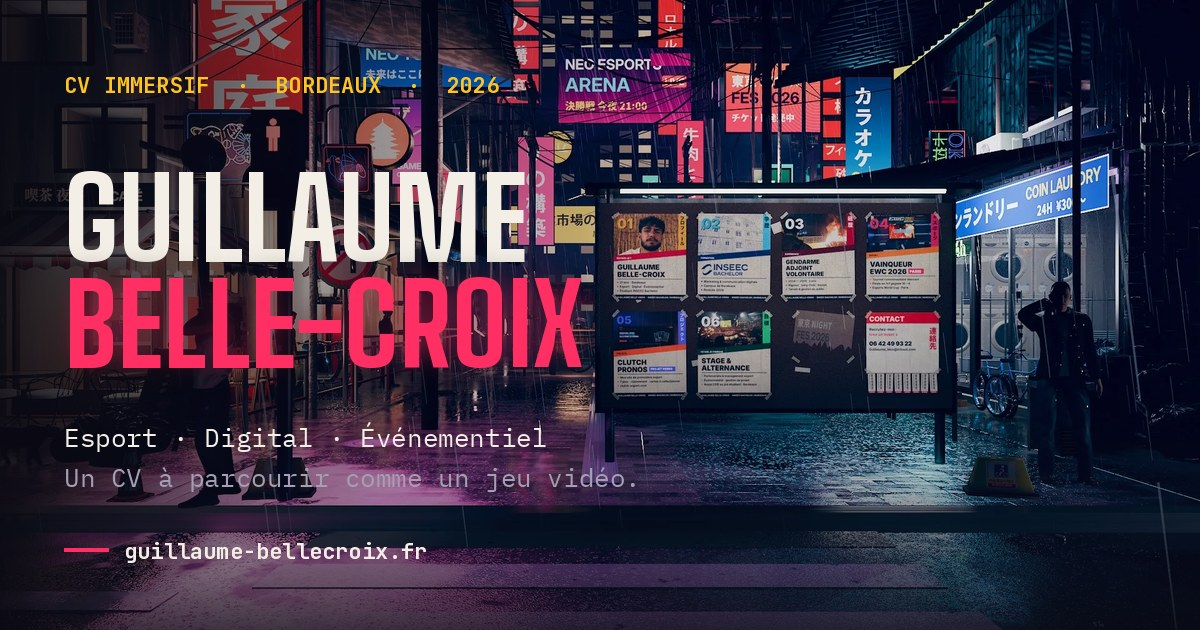
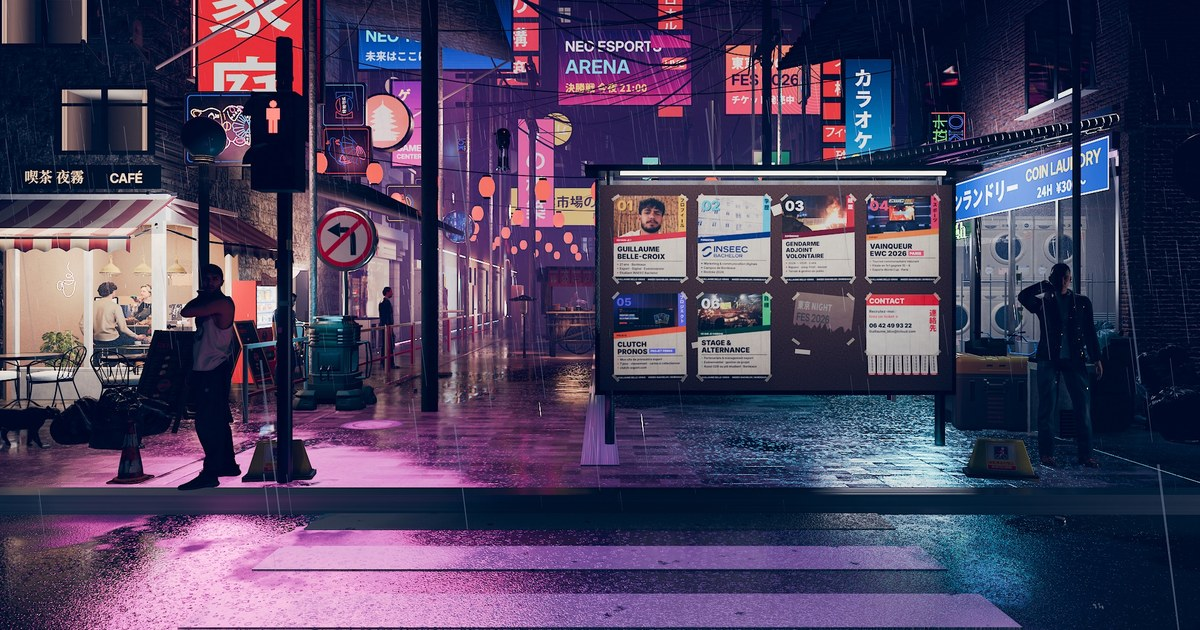
Fond d'accueil, vignette et image de partage en HD depuis le nouveau rendu (sans robot)
Claude-Session: https://claude.ai/code/session_012wzja54trYe7YAVCXgccqo

diff --git a/index.html b/index.html
@@ -45,7 +45,7 @@ a{color:inherit}
 #home{position:relative;min-height:100vh;min-height:100svh;overflow:hidden;display:flex;flex-direction:column;
   padding:0 max(20px,env(safe-area-inset-right,0px)) calc(28px + env(safe-area-inset-bottom,0px)) max(20px,env(safe-area-inset-left,0px))}
 #home[hidden]{display:none}
-#home .bg{position:absolute;inset:0;background:var(--night) url("img/dh/000.webp?v=15") 62% center/cover no-repeat}
+#home .bg{position:absolute;inset:0;background:var(--night) url("img/dh/000.webp?v=16") 62% center/cover no-repeat}
 #home .bg::after{content:"";position:absolute;inset:0;background:
   linear-gradient(90deg,rgba(11,10,18,.94) 0%,rgba(11,10,18,.78) 34%,rgba(11,10,18,.18) 72%,rgba(11,10,18,.35) 100%),
   linear-gradient(0deg,rgba(11,10,18,.95) 0%,rgba(11,10,18,0) 42%)}
@@ -227,7 +227,7 @@ img.ph{width:100%;object-fit:cover;display:block}
   <div class="lrow">
     <h2>Continuer</h2>
     <div class="tiles">
-      <button class="tile" type="button" id="tile-cv" style="background-image:url(img/t_cv.webp)"><span class="bdg">3D</span><span class="t"><b>CV immersif</b></span></button>
+      <button class="tile" type="button" id="tile-cv" style="background-image:url(img/t_cv.webp?v=2)"><span class="bdg">3D</span><span class="t"><b>CV immersif</b></span></button>
       <div class="tile pdf" style="background-image:url(img/t_dossier.webp?v=2);background-position:center top"><a class="cover" href="cv/CV_Guillaume_Belle-Croix_dossier.pdf?v=2" target="_blank" rel="noopener" aria-label="Voir le dossier"></a>
         <span class="t"><b>Dossier</b><small>PDF · 7 pages</small></span>
         <span class="acts"><a href="cv/CV_Guillaume_Belle-Croix_dossier.pdf?v=2" target="_blank" rel="noopener">Voir</a><a href="cv/CV_Guillaume_Belle-Croix_dossier.pdf?v=2" download="CV_Guillaume_Belle-Croix_dossier.pdf" aria-label="Télécharger le dossier">↓</a></span></div>

diff --git a/projets/index.html b/projets/index.html
@@ -108,7 +108,7 @@ html.sortie .wrap{opacity:0;transform:translateY(-10px)}
       </div>
     </a>
     <a class="proj" href="../">
-      <div class="img" style="background-image:url(../img/dh/000.webp?v=10)"></div>
+      <div class="img" style="background-image:url(../img/dh/000.webp?v=16)"></div>
       <div class="txt">
         <span class="tag">Blender · Site au scroll</span>
         <b>CV immersif</b>
